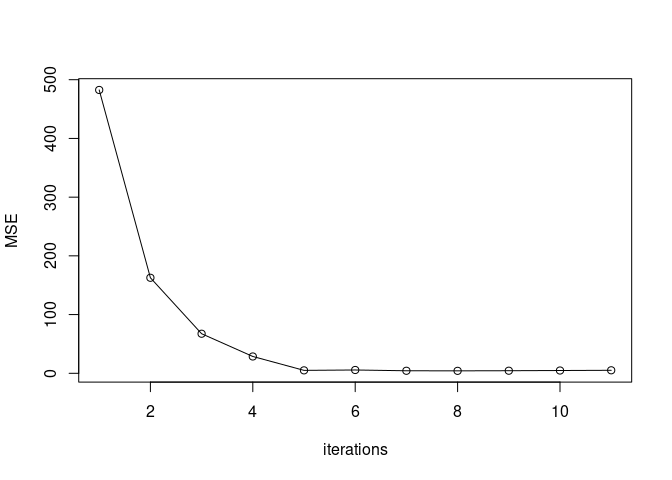
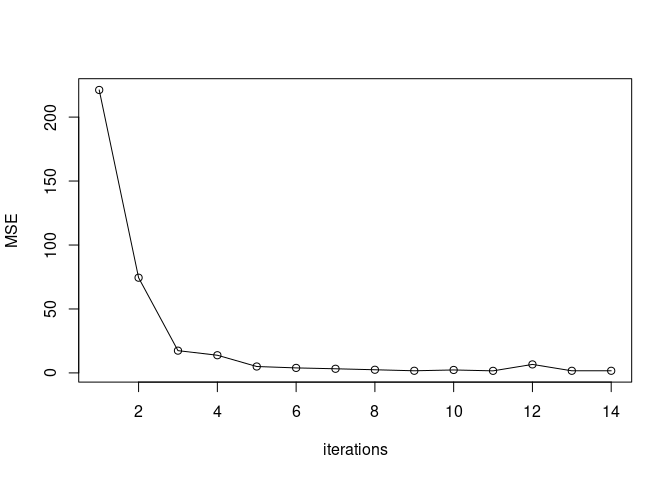
new documentation

diff --git a/README.md b/README.md
@@ -91,57 +91,55 @@ these columns:
 
 ``` r
 data_mixedml
-#>    ID time    x1    x2 x3    yf    ym
-#> 1   1    0 10.38 100.6  1 205.9 191.5
-#> 2   1    1    NA 103.5  1    NA    NA
-#> 3   1    2  9.82  97.9  1 196.3 182.3
-#> 4   1    3 11.01  98.2  1 214.3 199.8
-#> 5   1    4  8.89  98.5  1 182.6 169.0
-#> 6   2    0 10.38  97.5  0 100.7  89.4
-#> 7   2    1  9.35  99.3  0    NA    NA
-#> 8   2    2  9.60    NA  0  96.8  86.3
-#> 9   2    3  9.10 102.2  0  96.6  86.4
-#> 10  2    4  9.98 103.8  0 101.8  90.8
-#> 11  3    0 11.08  97.0  1 214.6 237.6
-#> 12  3    1  9.11  97.3  1 185.4 206.4
-#> 13  3    2 10.43  96.0  1 204.5 226.7
-#> 14  3    3  9.14 105.8  1 190.0 212.1
-#> 15  3    4 10.07 102.0  1 202.0 224.6
-#> 16  4    0  9.96  98.8  0  99.2  89.9
-#> 17  4    1 10.43 100.6  0 102.4  93.0
-#> 18  4    2 10.17 101.2  0 101.5  91.9
-#> 19  4    3  9.71 104.9  0 101.0  90.7
-#> 20  4    4 10.39  99.8  0 101.9  92.6
-#> 21  5    0  9.65  99.1  1 194.3 186.4
-#> 22  5    1  9.41  99.6  1 190.9 183.1
-#> 23  5    2 10.63 102.1  1 210.6 202.1
-#> 24  5    3  9.84 100.6  1 197.9 189.9
-#> 25  5    4 10.02  96.3  1 198.4 190.4
-#> 26  6    0  9.26  99.8  0  96.2 109.5
-#> 27  6    1  9.44  97.6  0  96.0 109.1
-#> 28  6    2  9.12  91.2  0  91.2 103.5
-#> 29  6    3  9.47  98.1  0  96.4 109.6
-#> 30  6    4  9.33  98.3  0  95.8 109.0
-#> 31  7    0 10.38 104.5  1 207.9 186.2
-#> 32  7    1  9.68 102.7  1 196.5 175.4
-#> 33  7    2 10.72  99.0  1 210.2 189.3
-#> 34  7    3  9.69  96.1  1 193.4 173.4
-#> 35  7    4 10.11 100.0  1 201.7 180.9
-#> 36  8    0 10.13 103.0  0 102.2 101.0
-#> 37  8    1 10.21 101.2  0 101.7 100.6
-#> 38  8    2  9.26 104.3  0  98.4  96.9
-#> 39  8    3 10.09 100.4  0 100.7  99.6
-#> 40  8    4 11.03  96.0  0 103.1 102.6
-#> 41  9    0 10.36  98.5  1 204.7 197.1
-#> 42  9    1  9.76  97.3  1 195.0 187.7
-#> 43  9    2  9.76 101.0  1 196.8 189.5
-#> 44  9    3 10.92 100.9  1 214.3 206.4
-#> 45  9    4 10.26  96.9  1 202.3 194.8
-#> 46 10    0  9.44 101.2  0  97.8  73.7
-#> 47 10    1  9.84 102.4  0 100.4  76.0
-#> 48 10    2 10.05  98.3  0  99.4  75.7
-#> 49 10    3 10.32 100.5  0 101.9  77.6
-#> 50 10    4 10.19 100.1  0 101.0  76.9
+#>    ID time    x1    x2 x3    yf     yr    ym ym_nonoise
+#> 1   1    0    NA 100.6  1 206.9 -12.76 194.5      194.2
+#> 2   1    1 11.01 103.5  1 217.9 -13.29 205.0      204.6
+#> 3   1    2  9.82  97.9  1 197.3 -12.29 184.7      185.0
+#> 4   1    3 11.01  98.2  1 215.3 -12.88 201.8      202.4
+#> 5   1    4  8.89  98.5  1 183.6 -11.89 171.5      171.7
+#> 6   2    0 10.38  97.5  0 101.7  10.97 112.8      112.6
+#> 7   2    1  9.35    NA  0  97.4  11.28 108.6      108.7
+#> 8   2    2  9.60  97.7  0  97.8  11.06 107.3      108.9
+#> 9   2    3  9.10 102.2  0  97.6  11.66 108.6      109.3
+#> 10  2    4  9.98 103.8  0 102.8  11.79 115.1      114.6
+#> 11  3    0 11.08  97.0  1 215.6  13.11    NA      228.7
+#> 12  3    1  9.11  97.3  1 186.4  11.92 197.6      198.3
+#> 13  3    2 10.43  96.0  1 205.5  12.65 218.5      218.2
+#> 14  3    3  9.14 105.8  1 191.0  12.48 204.2      203.5
+#> 15  3    4 10.07 102.0  1 203.0  12.81 216.1      215.8
+#> 16  4    0  9.96  98.8  0 100.2   3.43 103.1      103.6
+#> 17  4    1 10.43 100.6  0 103.4   3.29    NA      106.7
+#> 18  4    2 10.17 101.2  0 102.5   3.53 106.8      106.0
+#> 19  4    3  9.71 104.9  0 102.0   4.23 106.3      106.2
+#> 20  4    4 10.39  99.8  0 102.9   3.24 106.2      106.1
+#> 21  5    1  9.41  99.6  1 191.9  -3.72 187.2      188.2
+#> 22  5    2 10.63 102.1  1 211.6  -3.97 207.5      207.6
+#> 23  5    3  9.84 100.6  1 198.9  -3.81 195.1      195.1
+#> 24  5    4 10.02  96.3  1 199.4  -3.74 194.8      195.6
+#> 25  6    0  9.26  99.8  0  97.2  16.39 113.9      113.6
+#> 26  6    2  9.12  91.2  0  92.2  15.33 108.3      107.5
+#> 27  6    3  9.47  98.1  0  97.4  16.31 114.1      113.7
+#> 28  6    4  9.33  98.3  0  96.8  16.26 112.6      113.1
+#> 29  7    0 10.38 104.5  1 208.9  -6.09 202.7      202.8
+#> 30  7    1  9.68 102.7  1 197.5  -5.55 192.6      192.0
+#> 31  7    2 10.72  99.0  1 211.2  -6.52 204.5      204.7
+#> 32  7    3  9.69  96.1  1 194.4  -5.73 189.8      188.7
+#> 33  7    4 10.11 100.0  1 202.7  -5.99 196.1      196.7
+#> 34  8    0 10.13 103.0  0 103.2  -7.37  96.1       95.8
+#> 35  8    1 10.21 101.2  0 102.7  -7.30  94.6       95.4
+#> 36  8    2  9.26 104.3  0  99.4  -7.24  92.9       92.2
+#> 37  8    3 10.09 100.4  0 101.7  -7.23  94.8       94.4
+#> 38  8    4 11.03  96.0  0 104.1  -7.22  96.6       96.9
+#> 39  9    0 10.36  98.5  1 205.7   2.49 208.0      208.2
+#> 40  9    1  9.76  97.3  1 196.0   2.51 198.4      198.5
+#> 41  9    2  9.76 101.0  1 197.8   2.64 201.2      200.5
+#> 42  9    3 10.92 100.9  1 215.3   2.51 217.7      217.8
+#> 43  9    4 10.26  96.9  1 203.3   2.44 205.5      205.7
+#> 44 10    0  9.44 101.2  0  98.8 -21.28  77.2       77.5
+#> 45 10    1  9.84 102.4  0 101.4 -21.84  79.4       79.6
+#> 46 10    2 10.05  98.3  0 100.4 -21.58  77.4       78.8
+#> 47 10    3 10.32 100.5  0 102.9 -22.11  81.6       80.8
+#> 48 10    4 10.19 100.1  0 102.0 -21.93  80.2       80.1
 ```
 
 # 4 General principle
@@ -203,53 +201,66 @@ model_reservoir <- reservoir_mixedml(
 #> conda environment "01" activated!
 #> Warning in .check_na_combinaison(data, fixed_spec, random_spec, target_name): 
 #>          2 incomplete cases for the ML models
-#>          3 incomplete cases for the HLME model
+#>          4 incomplete cases for the HLME model
 #>          2 NA values in target
-#>          => 3/50 observations could not be used to train (either no fixed preds, random preds or target).
+#>          => 4/48 observations could not be used to train (either no fixed preds, random preds or target).
 #> step#0
 #>  fitting fixed effects...
 #>  fitting random effects...
-#>  MSE = 482.6
+#>  MSE = 221.2
 #> step#1
 #>  fitting fixed effects...
 #>  fitting random effects...
-#>  MSE = 162.7
+#>  MSE = 74.45
 #> step#2
 #>  fitting fixed effects...
 #>  fitting random effects...
-#>  MSE = 67.37
+#>  MSE = 17.41
 #> step#3
 #>  fitting fixed effects...
 #>  fitting random effects...
-#>  MSE = 28.61
+#>  MSE = 13.83
 #> step#4
 #>  fitting fixed effects...
 #>  fitting random effects...
-#>  MSE = 4.964
+#>  MSE = 5.016
 #> step#5
 #>  fitting fixed effects...
 #>  fitting random effects...
-#>  MSE = 5.608
+#>  MSE = 3.928
 #> step#6
 #>  fitting fixed effects...
 #>  fitting random effects...
-#>  MSE = 4.283
+#>  MSE = 3.247
 #> step#7
 #>  fitting fixed effects...
 #>  fitting random effects...
-#>  MSE = 4.149
+#>  MSE = 2.477
 #> step#8
 #>  fitting fixed effects...
 #>  fitting random effects...
-#>  MSE = 4.37
+#>  MSE = 1.682
 #> step#9
 #>  fitting fixed effects...
 #>  fitting random effects...
-#>  MSE = 4.713
+#>  MSE = 2.318
 #> step#10
 #>  fitting fixed effects...
 #>  fitting random effects...
-#>  MSE = 5.086
+#>  MSE = 1.627
+#> step#11
+#>  fitting fixed effects...
+#>  fitting random effects...
+#>  MSE = 6.655
+#> step#12
+#>  fitting fixed effects...
+#>  fitting random effects...
+#>  MSE = 1.667
+#> step#13
+#>  fitting fixed effects...
+#>  fitting random effects...
+#>  MSE = 1.677
+#> Final convergence of HLME with strict convergence criterions.
 ```
 
 The resulting model will be used in the remaining sections.
@@ -264,30 +275,31 @@ model_reservoir$random_model
 #>      fitted by maximum likelihood method 
 #>  
 #> hlme(fixed = ym ~ 1, random = ~x1 + x2, subject = "ID", idiag = TRUE, 
-#>     cor = NULL, data = data, convB = 1e-04, convL = 1e-04, convG = 1e-04, 
+#>     cor = NULL, data = data, convB = hlme_controls_final$convB, 
+#>     convL = hlme_controls_final$convL, convG = hlme_controls_final$convG, 
 #>     maxiter = 50, na.action = 1, posfix = 1, verbose = FALSE, 
 #>     var.time = "time", nproc = 1)
 #>  
 #> Statistical Model: 
 #>      Dataset: data 
 #>      Number of subjects: 10 
-#>      Number of observations: 47 
-#>      Number of observations deleted: 3 
+#>      Number of observations: 44 
+#>      Number of observations deleted: 4 
 #>      Number of latent classes: 1 
 #>      Number of parameters: 5  
 #>      Number of estimated parameters: 4  
 #>  
 #> Iteration process: 
 #>      Convergence criteria satisfied 
-#>      Number of iterations:  8 
-#>      Convergence criteria: parameters= 1.8e-07 
-#>                          : likelihood= 1.3e-08 
-#>                          : second derivatives= 6.8e-10 
+#>      Number of iterations:  19 
+#>      Convergence criteria: parameters= 8.7e-10 
+#>                          : likelihood= 8.7e-11 
+#>                          : second derivatives= 5.7e-15 
 #>  
 #> Goodness-of-fit statistics: 
-#>      maximum log-likelihood: -139.56  
-#>      AIC: 287.12  
-#>      BIC: 288.33  
+#>      maximum log-likelihood: -125.03  
+#>      AIC: 258.06  
+#>      BIC: 259.27  
 #>  
 #> 
 ```
@@ -295,7 +307,7 @@ model_reservoir$random_model
 ``` r
 # (this model uses reticulate so it not very convenient as an example…)
 model_reservoir$fixed_model
-#> <reservoir_ensemble.JoblibReservoirEnsemble object at 0x724820771940>
+#> <reservoir_ensemble.JoblibReservoirEnsemble object at 0x7cbab5971940>
 ```
 
 Also a `call` attribute exists, meaning one can trained the model with
@@ -412,8 +424,9 @@ plot_last_iter(model, subject_nb_or_list, ylog = FALSE)
 Prediction plot of the model.
 
 ``` r
-plot_last_iter(model = model_reservoir, subject_nb_or_list = 3)
-#> Subjects selected randomly: use set.seed to change the selection.
+plot_last_iter(model = model_reservoir, subject_nb_or_list = c(1, 2, 3, 4, 5))
+#> Warning: Removed 6 rows containing missing values or values outside the scale range
+#> (`geom_point()`).
 ```
 
 <img src="man/figures/README-unnamed-chunk-18-1.png" width="100%" />
@@ -429,7 +442,7 @@ backup <- load_backup(
 
 ``` r
 backup$fixed_model
-#> <reservoir_ensemble.JoblibReservoirEnsemble object at 0x7247aa06df90>
+#> <reservoir_ensemble.JoblibReservoirEnsemble object at 0x7cba3f646210>
 ```
 
 ``` r
@@ -438,41 +451,40 @@ backup$random_model
 #>      fitted by maximum likelihood method 
 #>  
 #> hlme(fixed = ym ~ 1, random = ~x1 + x2, subject = "ID", idiag = TRUE, 
-#>     cor = NULL, data = data, convB = 1e-04, convL = 1e-04, convG = 1e-04, 
+#>     cor = NULL, data = data, convB = 0.01, convL = 0.01, convG = 0.01, 
 #>     maxiter = 50, na.action = 1, posfix = 1, verbose = FALSE, 
 #>     var.time = "time", nproc = 1)
 #>  
 #> Statistical Model: 
 #>      Dataset: data 
 #>      Number of subjects: 10 
-#>      Number of observations: 47 
-#>      Number of observations deleted: 3 
+#>      Number of observations: 44 
+#>      Number of observations deleted: 4 
 #>      Number of latent classes: 1 
 #>      Number of parameters: 5  
 #>      Number of estimated parameters: 4  
 #>  
 #> Iteration process: 
 #>      Convergence criteria satisfied 
-#>      Number of iterations:  8 
-#>      Convergence criteria: parameters= 1.8e-07 
-#>                          : likelihood= 1.3e-08 
-#>                          : second derivatives= 6.8e-10 
+#>      Number of iterations:  4 
+#>      Convergence criteria: parameters= 3.4e-05 
+#>                          : likelihood= 1.9e-07 
+#>                          : second derivatives= 4.4e-14 
 #>  
 #> Goodness-of-fit statistics: 
-#>      maximum log-likelihood: -139.56  
-#>      AIC: 287.12  
-#>      BIC: 288.33  
+#>      maximum log-likelihood: -127.27  
+#>      AIC: 262.54  
+#>      BIC: 263.75  
 #>  
 #> 
 ```
 
 ``` r
 predict(backup, data_mixedml)
-#>  [1] 208.9    NA 377.3 397.1 370.3  74.7 146.8    NA 153.8 162.4 210.6 411.3
-#> [13] 427.4 421.7 429.9  69.6 163.1 161.6 160.6 162.9 198.0 378.6 402.7 388.2
-#> [25] 386.9  62.6 169.4 161.4 170.1 169.8 210.3 376.9 386.1 365.6 382.4  75.4
-#> [37] 167.4 163.9 168.4 170.1 207.7 382.6 394.5 409.3 393.5  64.5 140.9 141.7
-#> [49] 147.4 144.3
+#>  [1]    NA 202.8 303.5 342.2 300.9  87.9    NA 141.3 144.7 153.6 199.5 180.4
+#> [13] 318.3 318.9 337.5  83.5 149.1 147.8 147.7 152.0 188.3 317.9 322.3 326.0
+#> [25]  79.8 140.4 145.8 146.0 199.5 307.9 328.6 304.0 323.2  85.2 140.9 135.2
+#> [37] 140.5 146.0 196.4 306.9 314.3 336.9 332.3  80.3 127.4 132.5 134.0 134.2
 ```
 
 ``` r
